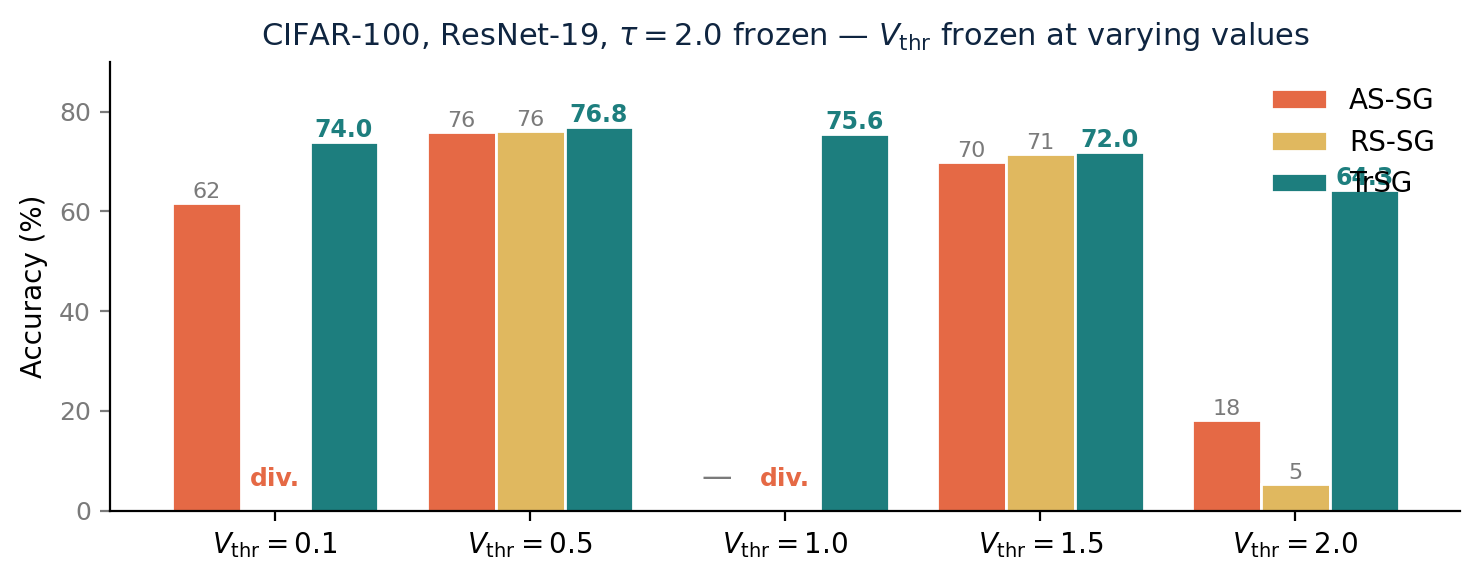
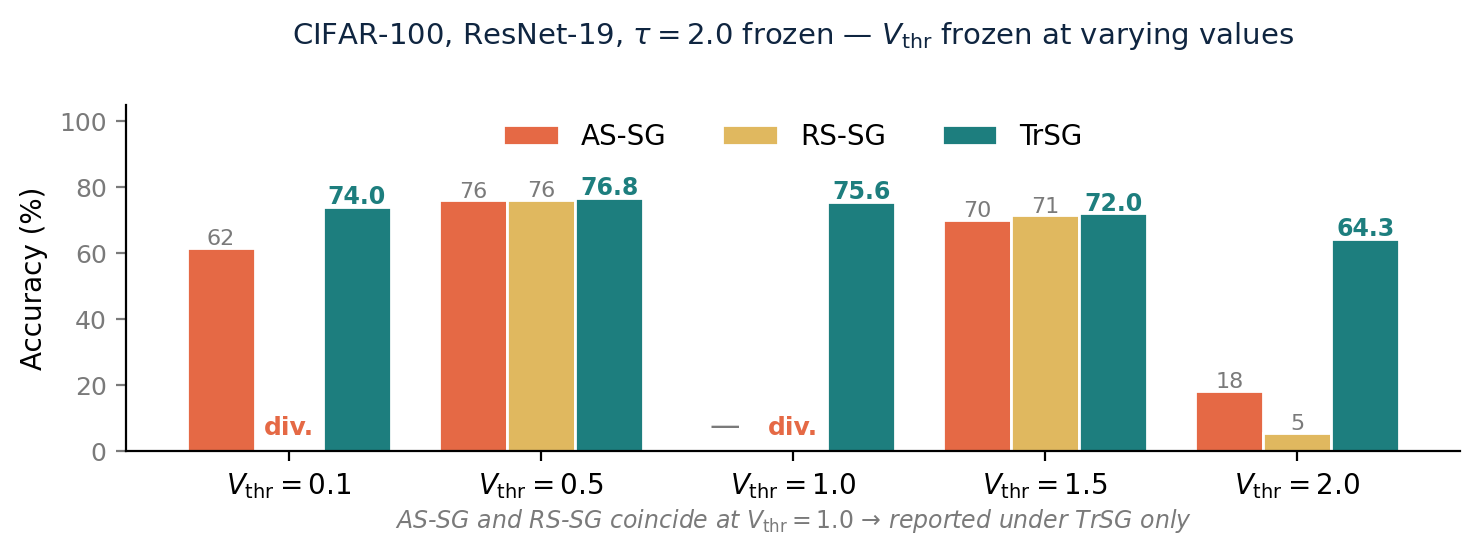
Second-pass full audit: 10 fact, layout, and consistency fixes
Verified against WACV paper main + supplementary tables:

  S6   Markov chain phrasing:
       'i.i.d. ⇒ Markov chain' →
       'Markov by construction; i.i.d. inputs ⇒ time-homogeneous'

  S8   Add T=2 row to MP-Init gain table:
       CIFAR-100 · T=2 · tdBN  72.35 → 74.01  (= +1.66 %pt headline)
       Re-spaced table + callout to keep last row off the footer.
       [paper supplementary tab:convergence-mpinit]

  S11  Card label 'Flooding' → 'Flood' to match the hero figure
       caption ('1. Gradient Flood').

  S13  Inference rescaling: 'W' = V_thr · W' →
       'W'_{l→l+1} = V_thr^l · W_{l→l+1}  (one-time rescaling per layer)'
       — explicit layer subscript.

  S15  Frozen-V_thr accuracy chart:
       - legend moved to top-center (no overlap with V_thr=2.0 TrSG bar)
       - ylim 0–105 (extra headroom)
       - footnote: 'AS-SG and RS-SG coincide at V_thr=1.0 → reported under
         TrSG only' to explain the '—' cells (paper convention).

  S16  Baseline label for DVS-CIFAR10:
       'RMP' → 'RMP-Loss'  [paper sec 6.1: RMP-Loss 76.20 → ours 81.43]
       Updated chart label and right-card text together.

  S17  'Each method helps alone; together they compound' →
       'gains stack additively (largest combined effect on event-based data)'
       — math: TrSG+MP-Init = 4.83 ≈ TrSG (4.23) + MP-Init (0.77), additive.

  S18  Energy panel: 'matched firing rate' → 'matched configuration';
       added cross-reference to slide 9 Pareto frontier so the +6 % energy
[…]

diff --git a/build_defense_ppt.py b/build_defense_ppt.py
@@ -446,7 +446,7 @@ slide_title(s, "Why Does the Membrane Potential Drift?",
 callout_box(s, 0.5, 2.5, 7.2, 0.7,
             fill=CREAM, accent=TEAL,
             title="The recurrence is a Markov chain",
-            body="U[t+1] = f( U[t], I_in[t+1] ) — i.i.d. ⇒ Markov chain",
+            body="U[t+1] = f( U[t], I_in[t+1] ) — Markov by construction;  i.i.d. inputs ⇒ time-homogeneous",
             title_color=TEAL, body_color=INK,
             title_size=12, body_size=11)
 
@@ -569,13 +569,14 @@ text(s, 9.8, 4.65, 2.95, 0.3, "MP-Init (ours)",
      font=SANS, size=10, bold=True, color=TEAL, align=PP_ALIGN.CENTER)
 
 # Bottom: gain table card
-text(s, 0.5, 5.10, 12.3, 0.4,
+text(s, 0.5, 4.95, 12.3, 0.4,
      "Consistent accuracy gain on every baseline",
      font=SANS, size=14, bold=True, color=NAVY)
 
 # Gain table — native PPT table for cleaner grid + edit-ability
-gx, gy = 0.5, 5.5
+gx, gy = 0.5, 5.30
 gain_rows = [
+    ("CIFAR-100  ·  T=2  ·  tdBN",      "72.35", "74.01"),
     ("CIFAR-100  ·  T=4  ·  tdBN",      "75.55", "76.09"),
     ("CIFAR-100  ·  T=4  ·  TEBN",      "75.96", "76.45"),
     ("CIFAR-100  ·  T=4  ·  TAB",       "76.25", "77.24"),
@@ -589,9 +590,9 @@ gain_tbl = gain_tbl_shape.table
 gain_tbl.columns[0].width = Inches(4.2)
 gain_tbl.columns[1].width = Inches(1.5)
 gain_tbl.columns[2].width = Inches(1.5)
-gain_tbl.rows[0].height = Inches(0.35)
+gain_tbl.rows[0].height = Inches(0.32)
 for r in range(1, len(gain_rows) + 1):
-    gain_tbl.rows[r].height = Inches(0.30)
+    gain_tbl.rows[r].height = Inches(0.245)
 
 # Header row
 for j, (h, alignj) in enumerate([("Setting", PP_ALIGN.LEFT),
@@ -630,13 +631,13 @@ for i, (label, base, ours) in enumerate(gain_rows, start=1):
 # Right: highlighted +1.66
 hx = 8.0
 hbox = s.shapes.add_shape(MSO_SHAPE.RECTANGLE,
-    Inches(hx), Inches(5.5), Inches(4.85), Inches(1.55))
+    Inches(hx), Inches(5.30), Inches(4.85), Inches(1.55))
 hbox.fill.solid(); hbox.fill.fore_color.rgb = AMBER_LT
 hbox.line.color.rgb = AMBER; hbox.line.width = Pt(1.2)
-text(s, hx + 0.25, 5.65, 4.5, 0.55,
+text(s, hx + 0.25, 5.45, 4.5, 0.55,
      "+1.66 %pt at T = 2",
      font=SERIF, size=24, bold=True, color=NAVY)
-text(s, hx + 0.25, 6.25, 4.5, 0.7,
+text(s, hx + 0.25, 6.05, 4.5, 0.7,
      "Biggest gain in the most latency-critical regime —\nexactly where SNN energy efficiency matters.",
      font=SANS, size=10, color=INK)
 
@@ -776,7 +777,7 @@ gap = 0.18
 bx0 = (13.333 - (5 * bw + 4 * gap)) / 2   # auto-center the badge row
 
 badge(s, bx0 + 0*(bw+gap), by, bw, 0.85,
-      "✗ Flooding",  "AS-SG · V_thr ≪ 1",
+      "✗ Flood",     "AS-SG · V_thr ≪ 1",
       fill=CORAL_LT, border=CORAL, sub_color=INK)
 badge(s, bx0 + 1*(bw+gap), by, bw, 0.85,
       "✗ Starvation", "AS-SG · V_thr ≫ 1",
@@ -863,7 +864,7 @@ text(s, 0.5, 3.95, 12.3, 0.4,
      font=SANS, size=14, bold=True, color=NAVY)
 callout_box(s, 0.5, 4.45, 12.3, 0.7,
             fill=CREAM, accent=AMBER,
-            body="W'_{l→l+1}   =   V_thr  ·  W_{l→l+1}    (one-time rescaling)",
+            body="W'_{l→l+1}   =   V_thr^l  ·  W_{l→l+1}    (one-time rescaling per layer)",
             body_color=INK, body_size=12)
 callout_box(s, 0.5, 5.25, 12.3, 0.7,
             fill=TEAL_LT, accent=TEAL,
@@ -1059,7 +1060,7 @@ def gain_card(slide, x, y, value, label, color):
 
 gain_card(s, 9.0, 2.4, "+1.09", "CIFAR-100  ·  beats TAB", TEAL)
 gain_card(s, 9.0, 3.95, "+0.64", "ImageNet  ·  beats MPS",   TEAL)
-gain_card(s, 9.0, 5.5,  "+5.23", "DVS-CIFAR10  ·  beats RMP", AMBER)
+gain_card(s, 9.0, 5.5,  "+5.23", "DVS-CIFAR10  ·  beats RMP-Loss", AMBER)
 
 # Bottom emphasis
 callout_box(s, 0.5, 6.7, 12.3, 0.4,
@@ -1076,7 +1077,7 @@ page_footer(s, 16)
 s = add_blank()
 section_label(s, "Experiments · 2/3")
 slide_title(s, "Ablation — Independent and Complementary",
-            "Each method helps alone; together they compound (especially on event-based data)")
+            "Each method helps alone; gains stack additively (largest combined effect on event-based data)")
 
 # Bar chart
 img(s, GEN + "/ablation_bars.png", 0.4, 2.45, w=10.0)
@@ -1135,10 +1136,11 @@ gen_card(s, 6.85, 2.5, 6.0, 1.7,
          "First evidence the principles transfer beyond classification.")
 
 gen_card(s, 0.5, 4.4, 6.0, 1.7,
-         "Energy at matched firing rate  (CIFAR-100)",
+         "Energy under matched configuration  (CIFAR-100)",
          "Baseline   1.57 mJ   ·   75.58 %\n"
          "+ MP-Init + TrSG    1.67 mJ   ·   77.68 %\n"
-         "+2.10 %pt at +6 % energy — gains aren't from spiking more.")
+         "+2.10 %pt at +6 % energy → orders of magnitude better than\n"
+         "spike-rate-multiplying baselines (cf. Pareto frontier on slide 9).")
 
 gen_card(s, 6.85, 4.4, 6.0, 1.7,
          "All four surrogate shapes",

diff --git a/gen_ppt_visuals.py b/gen_ppt_visuals.py
@@ -198,7 +198,7 @@ datasets = ["CIFAR-10\n(R-19, T=6)", "CIFAR-100\n(R-19, T=6)",
             "ImageNet\n(SEW-R34, T=4)", "DVS-CIFAR10\n(R-19, T=10)"]
 prev_best = [94.81, 76.82, 69.03, 76.20]
 ours      = [95.50, 77.91, 69.67, 81.43]
-prev_label = ["TAB", "TAB", "MPS", "RMP"]
+prev_label = ["TAB", "TAB", "MPS", "RMP-Loss"]
 
 x = np.arange(len(datasets))
 w = 0.32
@@ -310,12 +310,17 @@ for bar, val in zip(b2, rs_vals):
 
 ax.set_xticks(x); ax.set_xticklabels([f"$V_{{\\rm thr}}={v}$" for v in v_thrs], fontsize=10)
 ax.set_ylabel("Accuracy (%)", fontsize=10)
-ax.set_ylim(0, 90)
+ax.set_ylim(0, 105)  # extra headroom so legend sits above all bars
 ax.spines["top"].set_visible(False); ax.spines["right"].set_visible(False)
 ax.tick_params(axis="y", labelsize=9, colors=GRAY)
-ax.legend(loc="upper right", fontsize=10, frameon=False)
+ax.legend(loc="upper center", ncol=3, fontsize=10, frameon=False,
+          bbox_to_anchor=(0.5, 1.02))
 ax.set_title("CIFAR-100, ResNet-19, $\\tau=2.0$ frozen — $V_{\\rm thr}$ frozen at varying values",
-             fontsize=11, color=NAVY)
+             fontsize=10.5, color=NAVY, pad=22)
+# Footnote: AS-SG and RS-SG are mathematically identical at V_thr=1.0 (paper convention)
+ax.text(0.5, -0.22,
+        "AS-SG and RS-SG coincide at $V_{\\rm thr}=1.0$ → reported under TrSG only",
+        transform=ax.transAxes, ha="center", fontsize=8.5, color=GRAY, style="italic")
 
 plt.tight_layout()
 plt.savefig("ppt_assets/gen/no_training_acc.png", bbox_inches="tight",